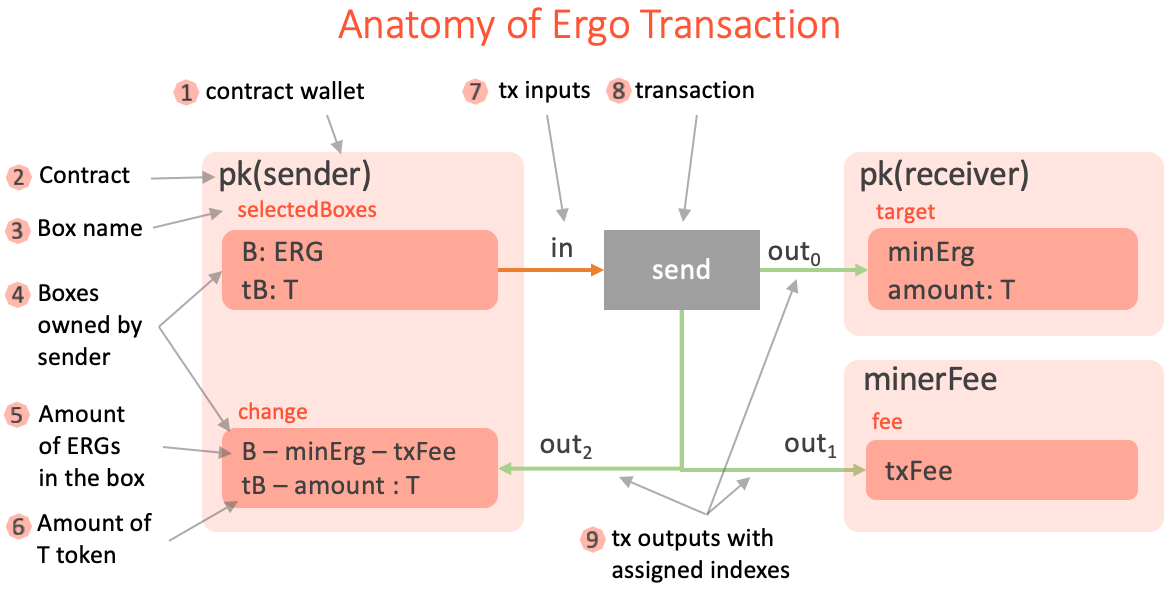
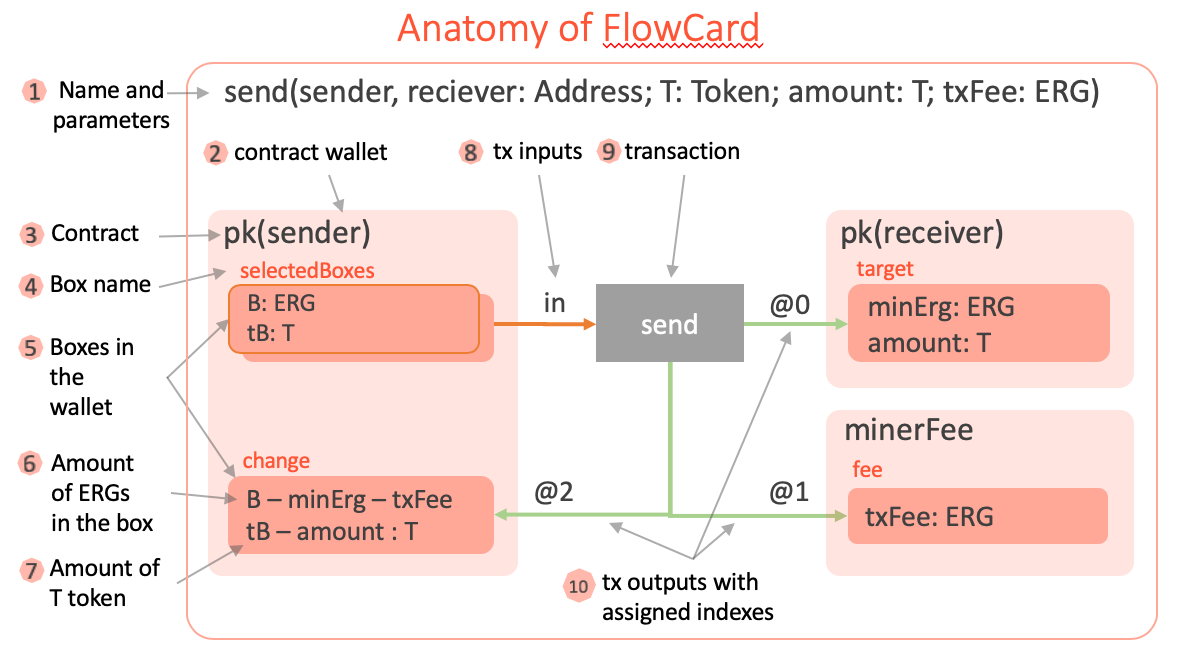
design-contracts.md: changes based on greenhat's feedback

diff --git a/docs/design-contracts/design-contracts.md b/docs/design-contracts/design-contracts.md
@@ -1,15 +1,15 @@
-# ErgoFlow: A Declarative Framework for Development of Ergo Contracts
+# FlowCards: A Declarative Framework for Development of Ergo Contracts
 
 ### Introduction 
 
 [ErgoScript](https://ergoplatform.org/docs/ErgoScript.pdf) is the contracts language on
-the Ergo blockchain. Even though it has concise syntax adopted from Scala, it still may
-seem confusing at first, because conceptually ErgoScript is quite different from the
+the Ergo blockchain. Even though it has concise syntax adopted from Scala/Kotlin, it still
+may seem confusing at first, because conceptually ErgoScript is quite different from the
 conventional languages which we all know and love. It is because Ergo is UTXO based
 blockchain, whereas smart contracts are traditionally associated with account based
-systems like Ethereum. However, Ergo's transaction model have many advandages over account
-based models and with a right approach it may be much easier to develop Ergo contracts
-than to write and debug Solitity code.
+systems like Ethereum. However, Ergo's transaction model have many advantages over account
+based models and with a right approach it can be much easier to develop Ergo contracts
+than to write and debug Solidity code.
 
 There are key aspects of Ergo's programming model (based on UTXO) in which it is different
 from Ethereum (i.e. account model)
@@ -37,13 +37,13 @@ blockchains and facilitates light trustless clients.
 
 ##### Expressive Power
 Ethereum advocated execution of turing-complete language on the blockchain. It
-theoretically promised unlimited potential applications, it practice however, the limits
-come from excessive storage growth, subtle multi-million bugs, gas costs which limit
+theoretically promised unlimited potential applications, in practice however, the limits
+came from excessive storage growth, subtle multi-million bugs, gas costs which limit
 application complexity etc. On the other hand, Ergo extends UTXO to enable
 turing-completnes while limiting complexity of the ErgoScript language. The same
-expressive power is achieved in a different, more semantically sound way.
+expressive power is achieved in a different and more semantically sound way.
 
-In this article I want to introduce ErgoFlow - a developer framework 
+In this article I want to introduce Ergo FlowCards - a developer framework 
 for designing of complex Ergo contracts in a declarative way.
 
 ### From Imperative to Declarative
@@ -75,12 +75,12 @@ tokens (in which Ergo is similar to Bitcoin).
 
 Since Ergo natively support tokens for this specific example of sending tokens we don't
 need to write any code in ErgoScript.
-What we need instead is to create the 'send' transaction shown in the following figure,
+Instead we need to create the 'send' transaction shown in the following figure,
 which describe the same token transfer but declaratively.
 
 ![Send](send-tx.png)
 
-We need in particular:
+In particular we have to perform the following steps:
 1) select unspent sender's boxes, containing in total `tB >= amount` of tokens and `B >=
 txFee + minErg` ERGs
 2) create one output (box) which is protected by `recipient` public key with `minErg` ERGs and
@@ -91,33 +91,42 @@ txFee + minErg` ERGs
 5) create a new transaction, sign it using the sender's secret key and send to the Ergo
 network.
 
-Note, that all the transaction creation is done off-chain (for example using
-[Appkit](https://github.com/aslesarenko/ergo-appkit) Transaction API). Ergo network nodes
-don't need to repeat this creation, they only need to validate it.
+What is important to understand is that ErgoScript doesn't allow to create transactions.
+Each ErgoScript contract lives inside a transaction and is executed when the transaction
+is validated _on-chain_. 
+
+However the transaction itself has to be created first, which is done _off-chain_ (for
+example using [Appkit](https://github.com/aslesarenko/ergo-appkit) Transaction API). Ergo
+network nodes don't need to repeat this transaction creation, they only need to validate
+the already baked transaction. 
+
+Please remember this observation, ErgoScript is not enough to run contracts on Ergo
+blockchain and we also need additional means to create transactions. (Looking ahead, this
+is where FlowCards comes into play).
 
 Thus, when in the Ethereum contract "We send amount from sender to recipient" we literally
 changing balances and update storage with the concrete set of commands, and this happens
-on-chain. 
+_on-chain_. 
 
-In Ergo (as in Bitcoin) transactions are created off-chain and the effects of the
+In Ergo (as in Bitcoin) transactions are created _off-chain_ and the effects of the
 transaction on the blockchain state is that input coins (or Boxes in Ergo's parlance) are
 removed and output boxes are added to the
 [UTXO](https://en.wikipedia.org/wiki/Unspent_transaction_output) set.
 
-Even though no contract code is necessary in this simple example, however in a more complex
-application scenarios we do need to use ErgoScript code and this is what we are going to
-discuss next.
+Even though we don't need any contract code in this simple example, however in a more
+complex application scenarios we do need to use ErgoScript code and this is what we are
+going to discuss next.
 
 ### From Changing State to Checking Context 
 
-In the `send` function example we first check the pre-condition (`require(amount <=
-balances[msg.sender],...)`) and then change the state (i.e. update balances
+Remember that in the `send` function example we first checked the pre-condition (`require(amount <=
+balances[msg.sender],...)`) and then changed the state (i.e. update balances
 `balances[msg.sender] -= amount`). This is typical in Ethereum transactions, before
 we change anything we need to check if it is valid to do at all.
 
 In Ergo, as we discussed, the state (i.e. UTXO set of boxes) is changed implicitly when a
 transaction is included in a block. Thus we only need to check the pre-conditions before
-the transaction can be added to the block. This is where ErgoScript comes into play.
+the transaction can be added to the block. This is what ErgoScript contracts do.
 
 It is not possible to "change the state" in ErgoScript because it is a language to check
 pre-conditions for spending coins. ErgoScript is purely functional language, without side effects
@@ -128,60 +137,81 @@ Bitcoin, each input box contains a script, which should be executed to the `true
 order to 1) allow spending of the box (i.e. removing from the UTXO set) and 2) add
 the transaction to the block.
 
-It is therefore inaccurate to say that ErgoScript is the language of Ergo contracts,
+It is therefore inaccurate to think of ErgoScript as the language of Ergo contracts,
 because it is the language of propositions (of logical predicates, formulas, etc.)
 protecting boxes from "illegal" spending. Unlike Bitcoin, in Ergo the whole
-transaction content as well as the current blockchain context is available in every
+transaction as well as the current blockchain context is available in every
 input's script. So each input script may check which outputs are created by the transaction,
-their ERG and token amounts (we will use this capability in our example DEX contracts). 
+their ERGs and tokens amounts (we will use this capability in our example DEX contracts). 
 
+_In ErgoScript you define the conditions of whether the changes (i.e. coin spending) can
+happen in a given context or not. This is instead of programming the changes imperatively
+in the code._
+ 
 While the Ergo's transaction model unlocks the whole range of applications like (DEX, DeFi
-Apps, LETS, etc), designing contracts as pre-conditions (or guarding scripts) directly is
-not intuitive. In the next section I will introduce useful graphical notation to design
-contracts declaratively as _ErgoFlow diagrams_.
+Apps, LETS, etc), designing contracts as pre-conditions for coin spending (or guarding
+scripts) directly is not intuitive. In the next sections I will introduce a useful graphical
+notation to design contracts declaratively using _FlowCard Diagrams_, which are visual
+representations of executable components (FlowCards). 
 
-### Graphical Notation
+_FlowCards is aiming to radically simplify dApp development on the Ergo platform by
+providing a high-level declarative language, execution runtime, storage format and
+a graphical notation_.
 
-The idea behind ErgoFlow diagrams is based on the following observations. Ergo boxes are immutable
-and cannot be changed. The only thing that can happen with a box is that it can be spent
-in a transaction (which in this case should take it as an input). We therefor can draw a
-flow of boxes through transactions, so that boxes _flowing in_ to the transaction are
-spent and those _flowing out_ are created and added to UTXO. A transaction from this
-perspective is a transformer of old boxes to new ones preserving the balances of ERGs and
-tokens involved.
+We will start with a high level of diagrams and go down to FlowCard specification.
 
-The following figure show the main elements of the transaction we already saw previously. 
+### FlowCard Diagrams
+
+The idea behind FlowCard diagrams is based on the following observations. Ergo boxes are
+immutable and cannot be spent in a transaction (which should take it as an input). We
+therefore can draw a flow of boxes through transactions, so that boxes _flowing in_ to the
+transaction are spent and those _flowing out_ are created and added to the UTXO. A
+transaction from this perspective is a transformer of old boxes to new ones preserving the
+balances of ERGs and tokens involved.
+
+The following figure shows the main elements of the Ergo transaction we saw
+previously (now as a FlowCard Diagram).
 
 ![Anatomy](tx-anatomy.png)
 
-There is a strictly defined meaning (aka semantics) behind every element of _the diagram_,
-so that the diagram is in fact a _formalized specification_, which can be used to
-mechanically create and send the corresponding transaction to Ergo blockchain, we will see
-this in the next section.
+There is a strictly defined meaning (semantics) behind every element of _the diagram_,
+so that the diagram is a visual representation (or a view) of the underlying executable
+component (called FlowCard).
 
-Another way to look at the diagram is as an executable spread-sheet-like flow of ERGs and
-tokens between boxes, where all transaction balances and conditions are validated.
+The FlowCard can be used as a reusable component of an Ergo dApp to create and send the
+transactions to Ergo blockchain. We will discuss this in the next sections.
 
-Now let's look at the pieces of the diagram one by one.
+Now let's look at the pieces of the FlowCard diagram one by one.
 
-##### 1. Contract Wallet 
+##### 1. Name and Parameters 
 
-This is a key element of the diagram. Every box has a guarding script. Most often it is
-the script that contains a public key and checks a signature generated using the
-corresponding secret key. This script is trivial in ErgoScript and looks like `{ sender
-}`, where sender is the named template parameter. We call the corresponding script template
-`pk(pubkey)`, which has one parameter.
+Each flow card is given a name and a list of typed parameters, this is similar to a class
+with constructor arguments. In the figure we see the `Send` flow card with five
+parameters. The parameters can be used in the specification.
 
-_Contract Wallet_ is then a set of all UTXO boxes which have a script with a given
-template and given parameter. In the figure, the template is `pk` and parameter `pubkey`
-is substituted with `sender' (address or public key).
+##### 2. Contract Wallet 
+
+This is a key element of the flow card. Every box has a guarding script. Often it is the
+script that checks a signature against a public key (aka ProveDlog proposition). This
+script is trivial in ErgoScript and is defined like the `{ pubkey }` template where
+`pubkey` is a parameter of type `Address`. In the figure, the script template is applied
+to the parameter `pk(sender)` and thus concrete wallet contract is obtained. Therefore
+`pk(sender)` and `pk(receiver)` yield different scripts and represent different wallets on
+the diagram.
+
+_Contract Wallet_ contains a set of all UTXO boxes which have a given script derived from
+the given template using flow card parameters. For example, in the figure, the template is
+`pk` and parameter `pubkey` is substituted with the `sender' flowcard parameter (address
+or public key).
   
-##### 2. Contract
+##### 3. Contract
 
-Even though a contract is a property of a box, on the diagram we group the boxes by
-their contracts. In the example, we have three instantiated contracts pk(sender),
-pk(receiver) and minerFee. Note, that `pk(sender)` is the instantiation of the `pk`
-template with the concrete parameter `sender`.
+Even though a contract is a property of a box, on the diagram we group the boxes by their
+contracts, therefore it looks like the boxes belong to the contracts, rather than the
+contracts belong to the boxes. In the example, we have three instantiated contracts
+pk(sender), pk(receiver) and minerFee. Note, that `pk(sender)` is the instantiation of the
+`pk` template with the concrete parameter `sender` and `minerFee` is the instantiation of
+the pre-defined contract.
 
 ##### 3. Box name
 
@@ -268,10 +298,11 @@ position of the corresponding box in OUTPUTS collection of the transaction.
 
 ### More Complex Example: Decentralized Exchange (DEX)
 
-Now let's use the described notation to design contracts for a DEX dApp. It is
-simple enough for a post, but it also illustrates all the primitives of the graphical
-language we've introduced.
+Now let's use the described notation to design a FlowCard for a DEX dApp. It is
+simple enough for a post, but it also illustrates all the primitives of the Flowcard
+diagrams we've introduced.
 
+The scenario: <br>
 There are three participants (buyer, seller and DEX) of the DEX dApp and five different
 transaction types, which can be created by participants. The buyer wants to swap `ergAmt`
 ERGs for `tAmt` of `TID` tokens (of vice versa, who send the orders first doesn't matter).
@@ -361,12 +392,40 @@ the swap of values between seller's and buyer's wallets. Buyer get's the necessa
 of `TID` token and seller get's the corresponding amount of ERGs. The `Swap` transaction
 can be created when there are two matching boxes with `buyOrder` and `sellOrder` contracts.
 
+### FlowCards vs ErgoScript?
+
+The key point is to specify conditions like `bid ? R4 == bid.id` in the
+boxes, rather than in the contracts as we used to think. 
+
+This idea of attaching conditions to boxes is a key, because it shifts the focus from
+ErgoScript contracts to the overall flow of values (hence FlowCard name), in such a way,
+that ErgoScript is always generated from them. 
+
+ErgoScript is a language of Ergo blockchain.
+FlowCard is a declarative specification of both off-chain transaction construction and
+on-chain box spending verifications. Since ErgoScript can always be generated for every
+box of a FlowCard we will never need to look at the ErgoScript code. 
+FlowCard is an off-chain component, that can emit transactions to the blockchain.
+If we follow the semantics of the notation and the tooling is implemented correctly
+ErgoScript is automatically generate behind the scene.
+
+We can think of some Embedded DSLs, but I want to go one step further and specify FlowCard
+Specification EIP and a standardized file format (Json/XML/Protobuf). And yes, visual
+notation can be generated, but only as a workaround until we have graphical editing tools.
+
+Having a diagram it is easy to write the text of `def dex(...) = ...` function, but
+it is much harder to write the code first, without having a diagram on the screen. 
+
+Whatever tools are used (DSL, Diagram Editor, etc) they all will produce a component which
+we call FlowCard (e.g. file `*.flowcard` specification format) (or whatever storage is used)
+which will be executed by FlowCard runtime.
+
 ### From Diagrams To ErgoScript Contracts
 
-What is nice about formalized graphical notation is that we can use it to mechanically
+What is nice about FlowCard Specification is that we can use it to 
 generate the necessary ErgoScript contracts. With tooling support this can be done
 automatically, with a lack of thereof, it can be done manually. This is what we are going
-to do next, create the `buyOrder` contract from the information given in the diagram.
+to do next, create the `buyOrder` contract from the information given in the flowcard.
 
 Recall that each contract is a proposition (boolean valued expression) which should
 evaluate to the `true` value. When we have many conditions to be met at the same time we
@@ -455,7 +514,7 @@ specification.
 
 ### From Diagrams To Ergo Transactions
 
-Since ErgoFlow diagrams are formalized specifications they can be executed.
+Since FlowCard diagrams are formalized specifications they can be executed.
 
 ### Conclusions
 
@@ -465,12 +524,25 @@ etc. Ergo is pioneering the declarative model of dApp development as a better an
 alternative to the now popular imperative model of smart contracts.
 
 What is next:
-1) Storage format for ErgoFlow specification (EIP)
-2) Interpreter of ErgoFlow specification
-4) Development of complex diagrams will be greatly simplified when specialized graphical
-editing tools appear. This will make desiging and validation of Ergo contracts a joyful
+1) Storage format for FlowCard Spec, EIP and a standardized file format (Json/XML/Protobuf)
+2) FlowCards runtime, which can run FlowCards, create and send transactions.
+3) Development of complex diagrams will be greatly simplified when specialized graphical
+editing tools appear. This will make designing and validation of Ergo contracts a pleasant
 experience, more like drawing rather than coding.
 
+
+ErgoCards declarative model shifts the focus from writing
+ErgoScript contracts to the overall flow of values (hence FlowCard name), in such a way,
+that ErgoScript is always generated from them. You will never need to look at the
+ErgoScript code and rely on the tooling.
+
+Visual notation can be generated, but only as a workaround until we have graphical editing
+tools. 
+Having a diagram it is easy to write the text of `def dex(...) = ...` function, but
+it is much harder to write the code first, without having a diagram on the screen. 
+
+Whatever tools are used (DSL, Diagram Editor, etc) they all will create `DEX.flowcard` file
+(or whatever storage we use) which will be used.
 
 ### References
 
